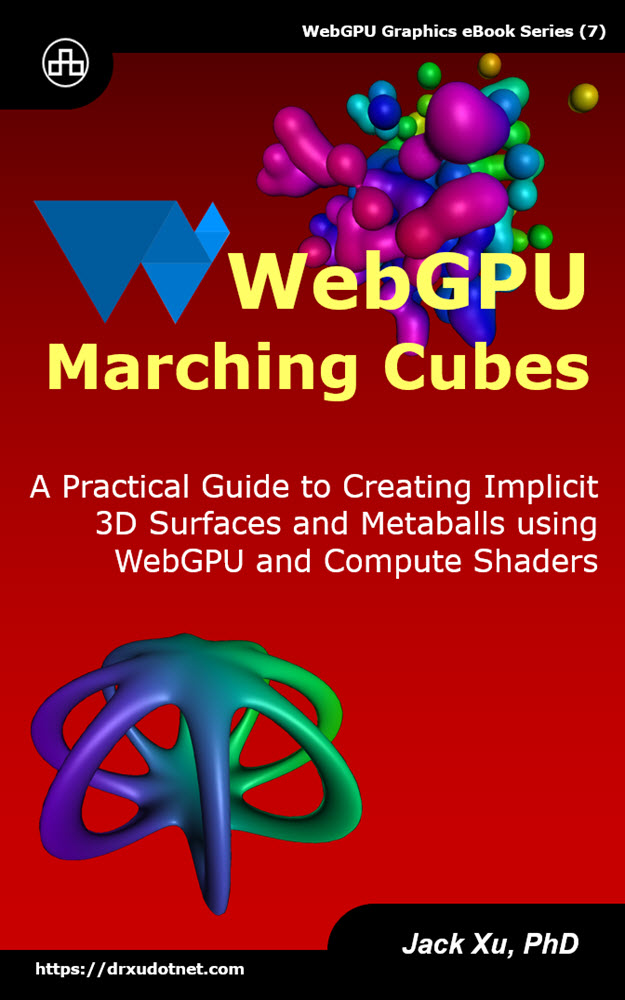
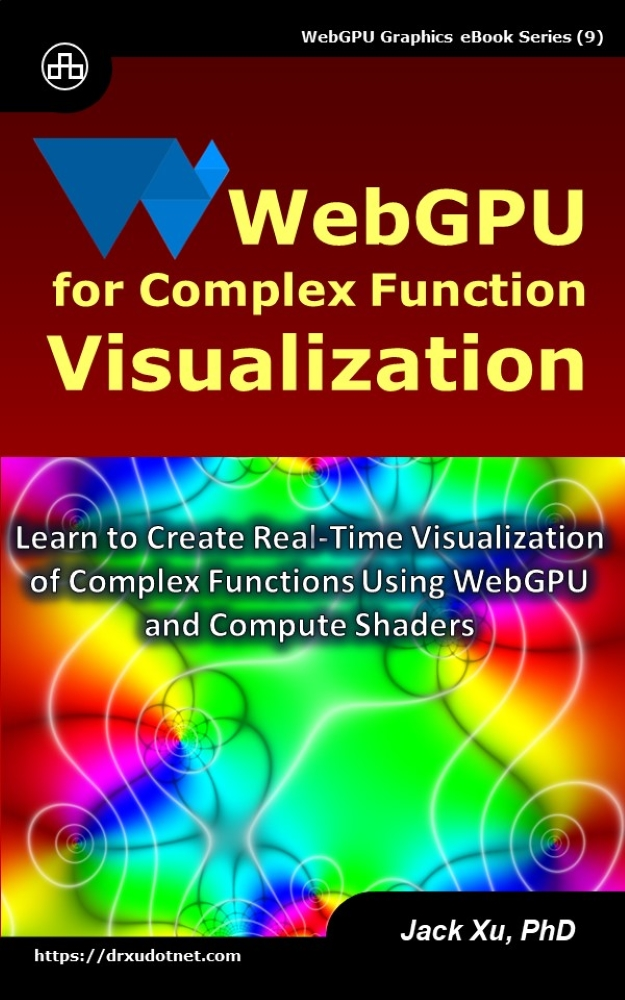
initial commit

diff --git a/src/examples/home.ts b/src/examples/home.ts
@@ -1,7 +1,7 @@
 document.querySelector('.right-div').innerHTML = `
     <div style="text-align:center;">
         <h1>Example Projects for the Book</h1>
-        <h2>WebGPU Marching Cubes</h2>
+        <h2>WebGPU for Complex Function Visualization</h2>
         <h3 style="color:red">For details about this book, please visit 
             <a href="https://drxudotnet.com">https://drxudotnet.com</a></h3>   
     </div>  

diff --git a/src/html/index.html b/src/html/index.html
@@ -2,7 +2,7 @@
 <html>
   <head>
     <meta charset="UTF-8">
-     <title>WebGPU Marching Cubes</title>
+     <title>WebGPU Complex Functions</title>
     <script defer type="text/javascript" src="index.js"></script>
   </head>
 

diff --git a/README.md b/README.md
@@ -1,7 +1,7 @@
-# WebGPU Marching Cubes 
-## A Practical Guide to Creating Implicit 3D Surfaces and Metaballs using WebGPU and Compute Shaders
+# WebGPU for Complex Function Visualization 
+## Learn to Create Real-Time Visualization of Complex Functions Using WebGPU and Compute Shaders
 
-This is a source code of example projects contained in the eBook ["WebGPU Marching Cubes"](https://www.amazon.com/exec/obidos/ASIN/B0CGT5B584/unicadinccom-20). 
+This is a source code of example projects contained in the eBook ["WebGPU for Complex Function Visualization"](https://www.amazon.com/exec/obidos/ASIN/B0CGT5B584/unicadinccom-20). 
 
 <p align="center">
 <a href="https://drxudotnet.com"><img src="src/assets/cover.jpg" width="200" height="320"></a>
